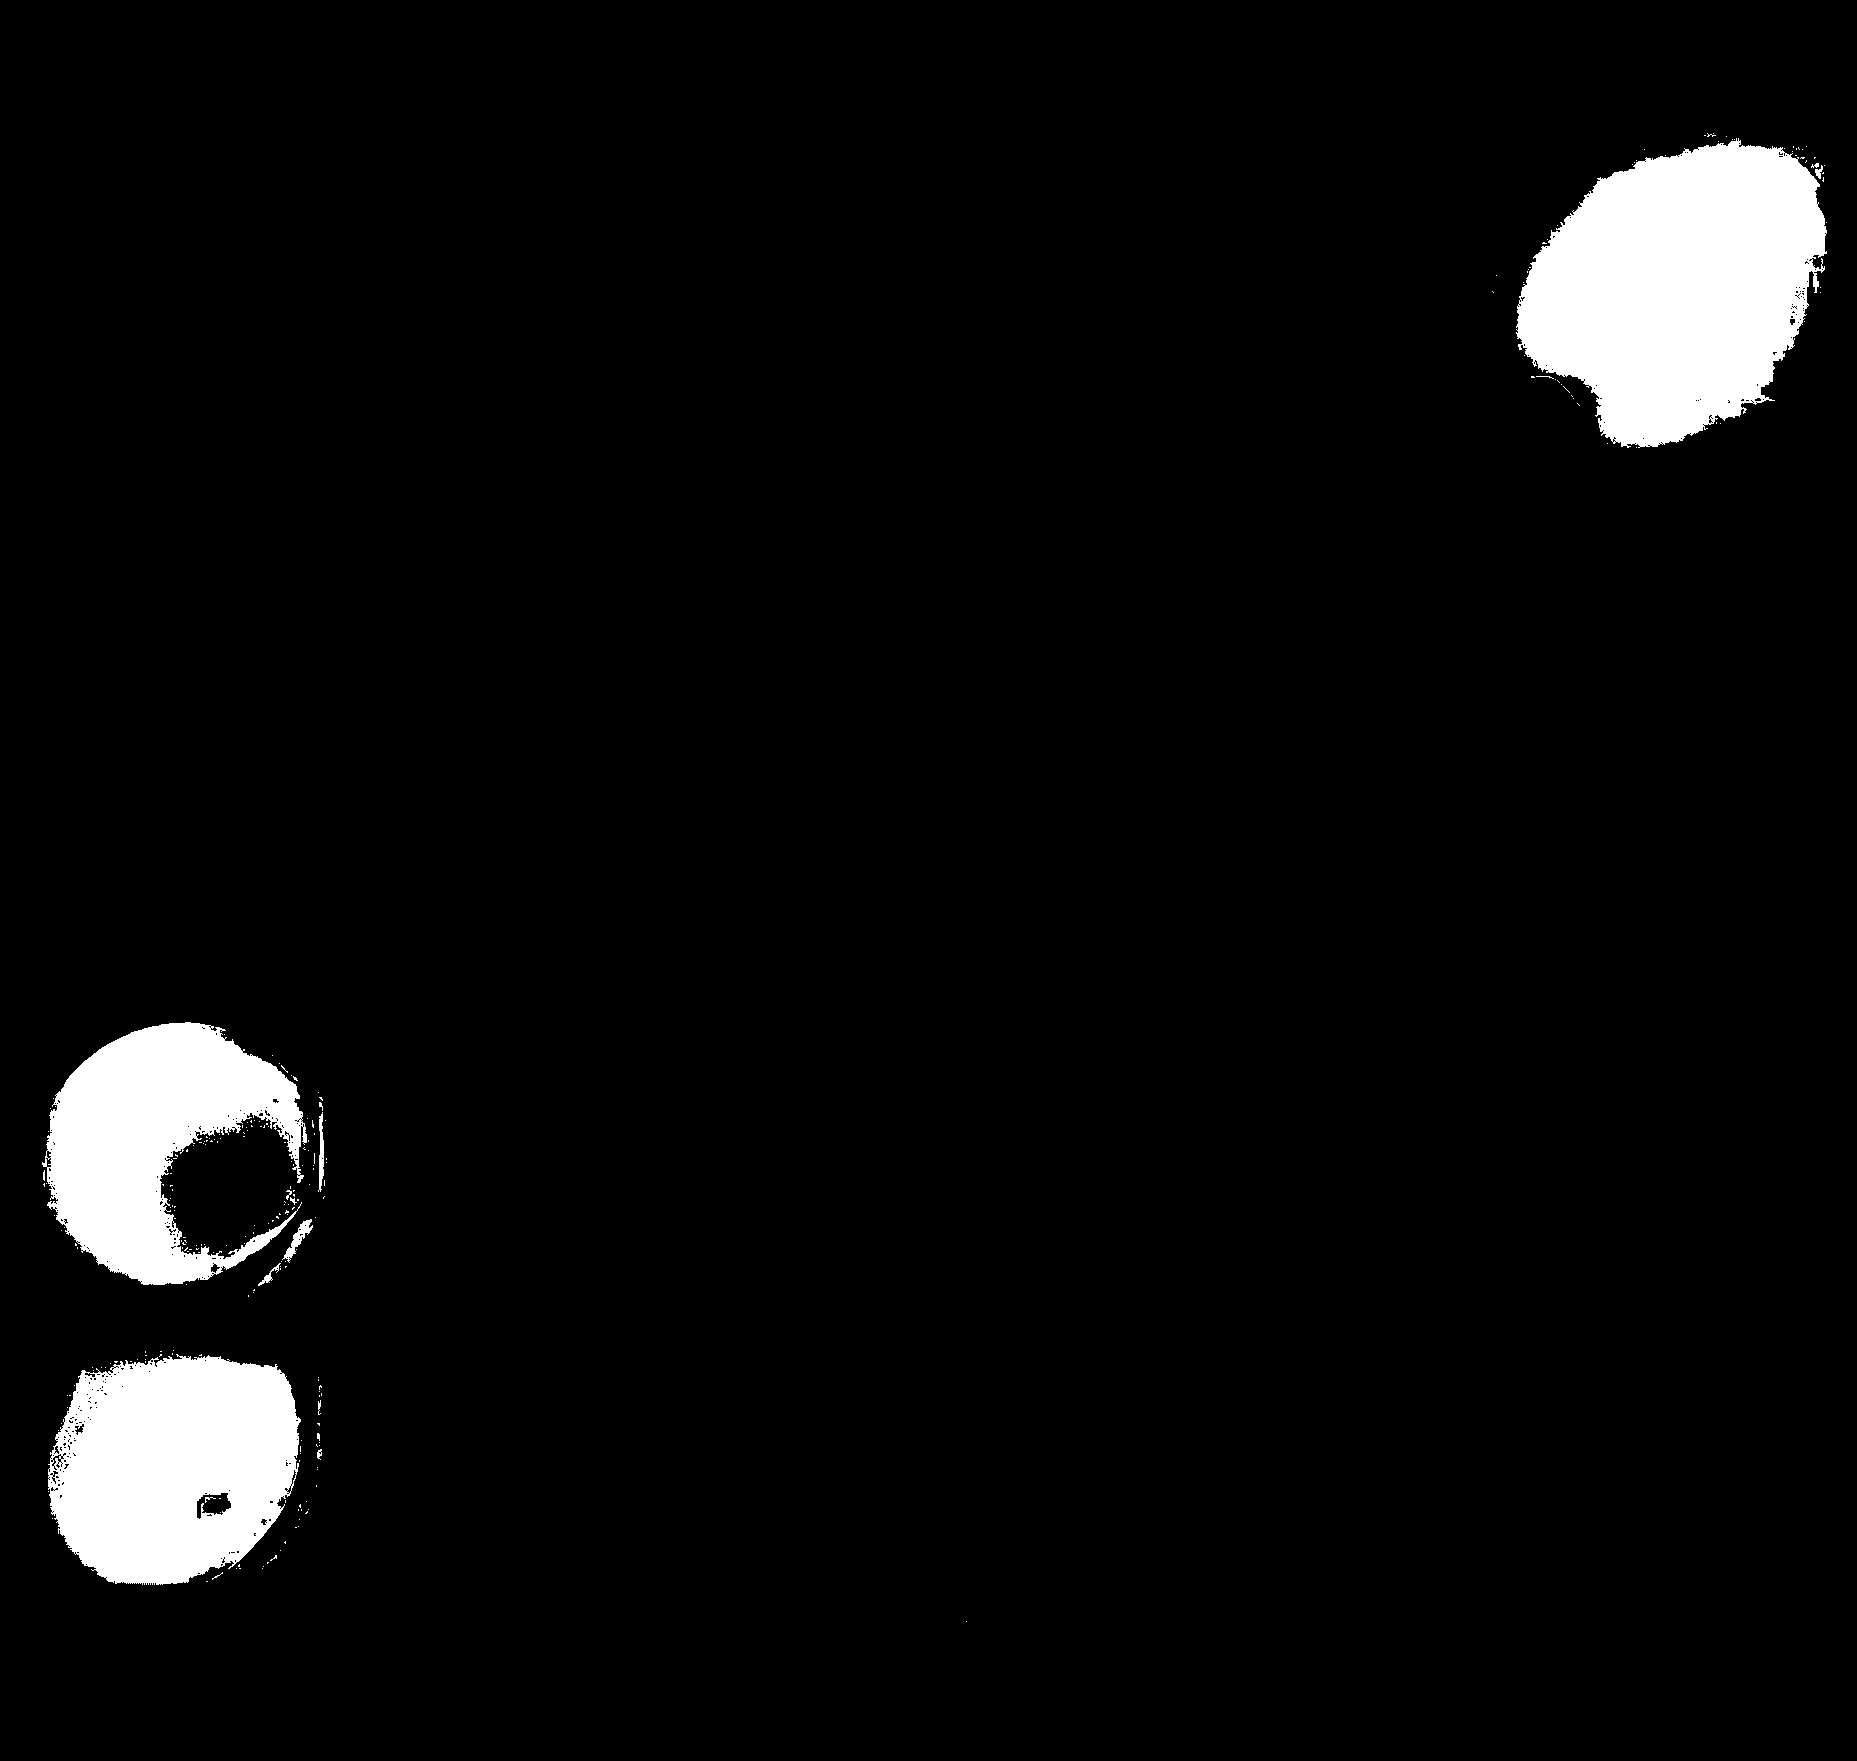
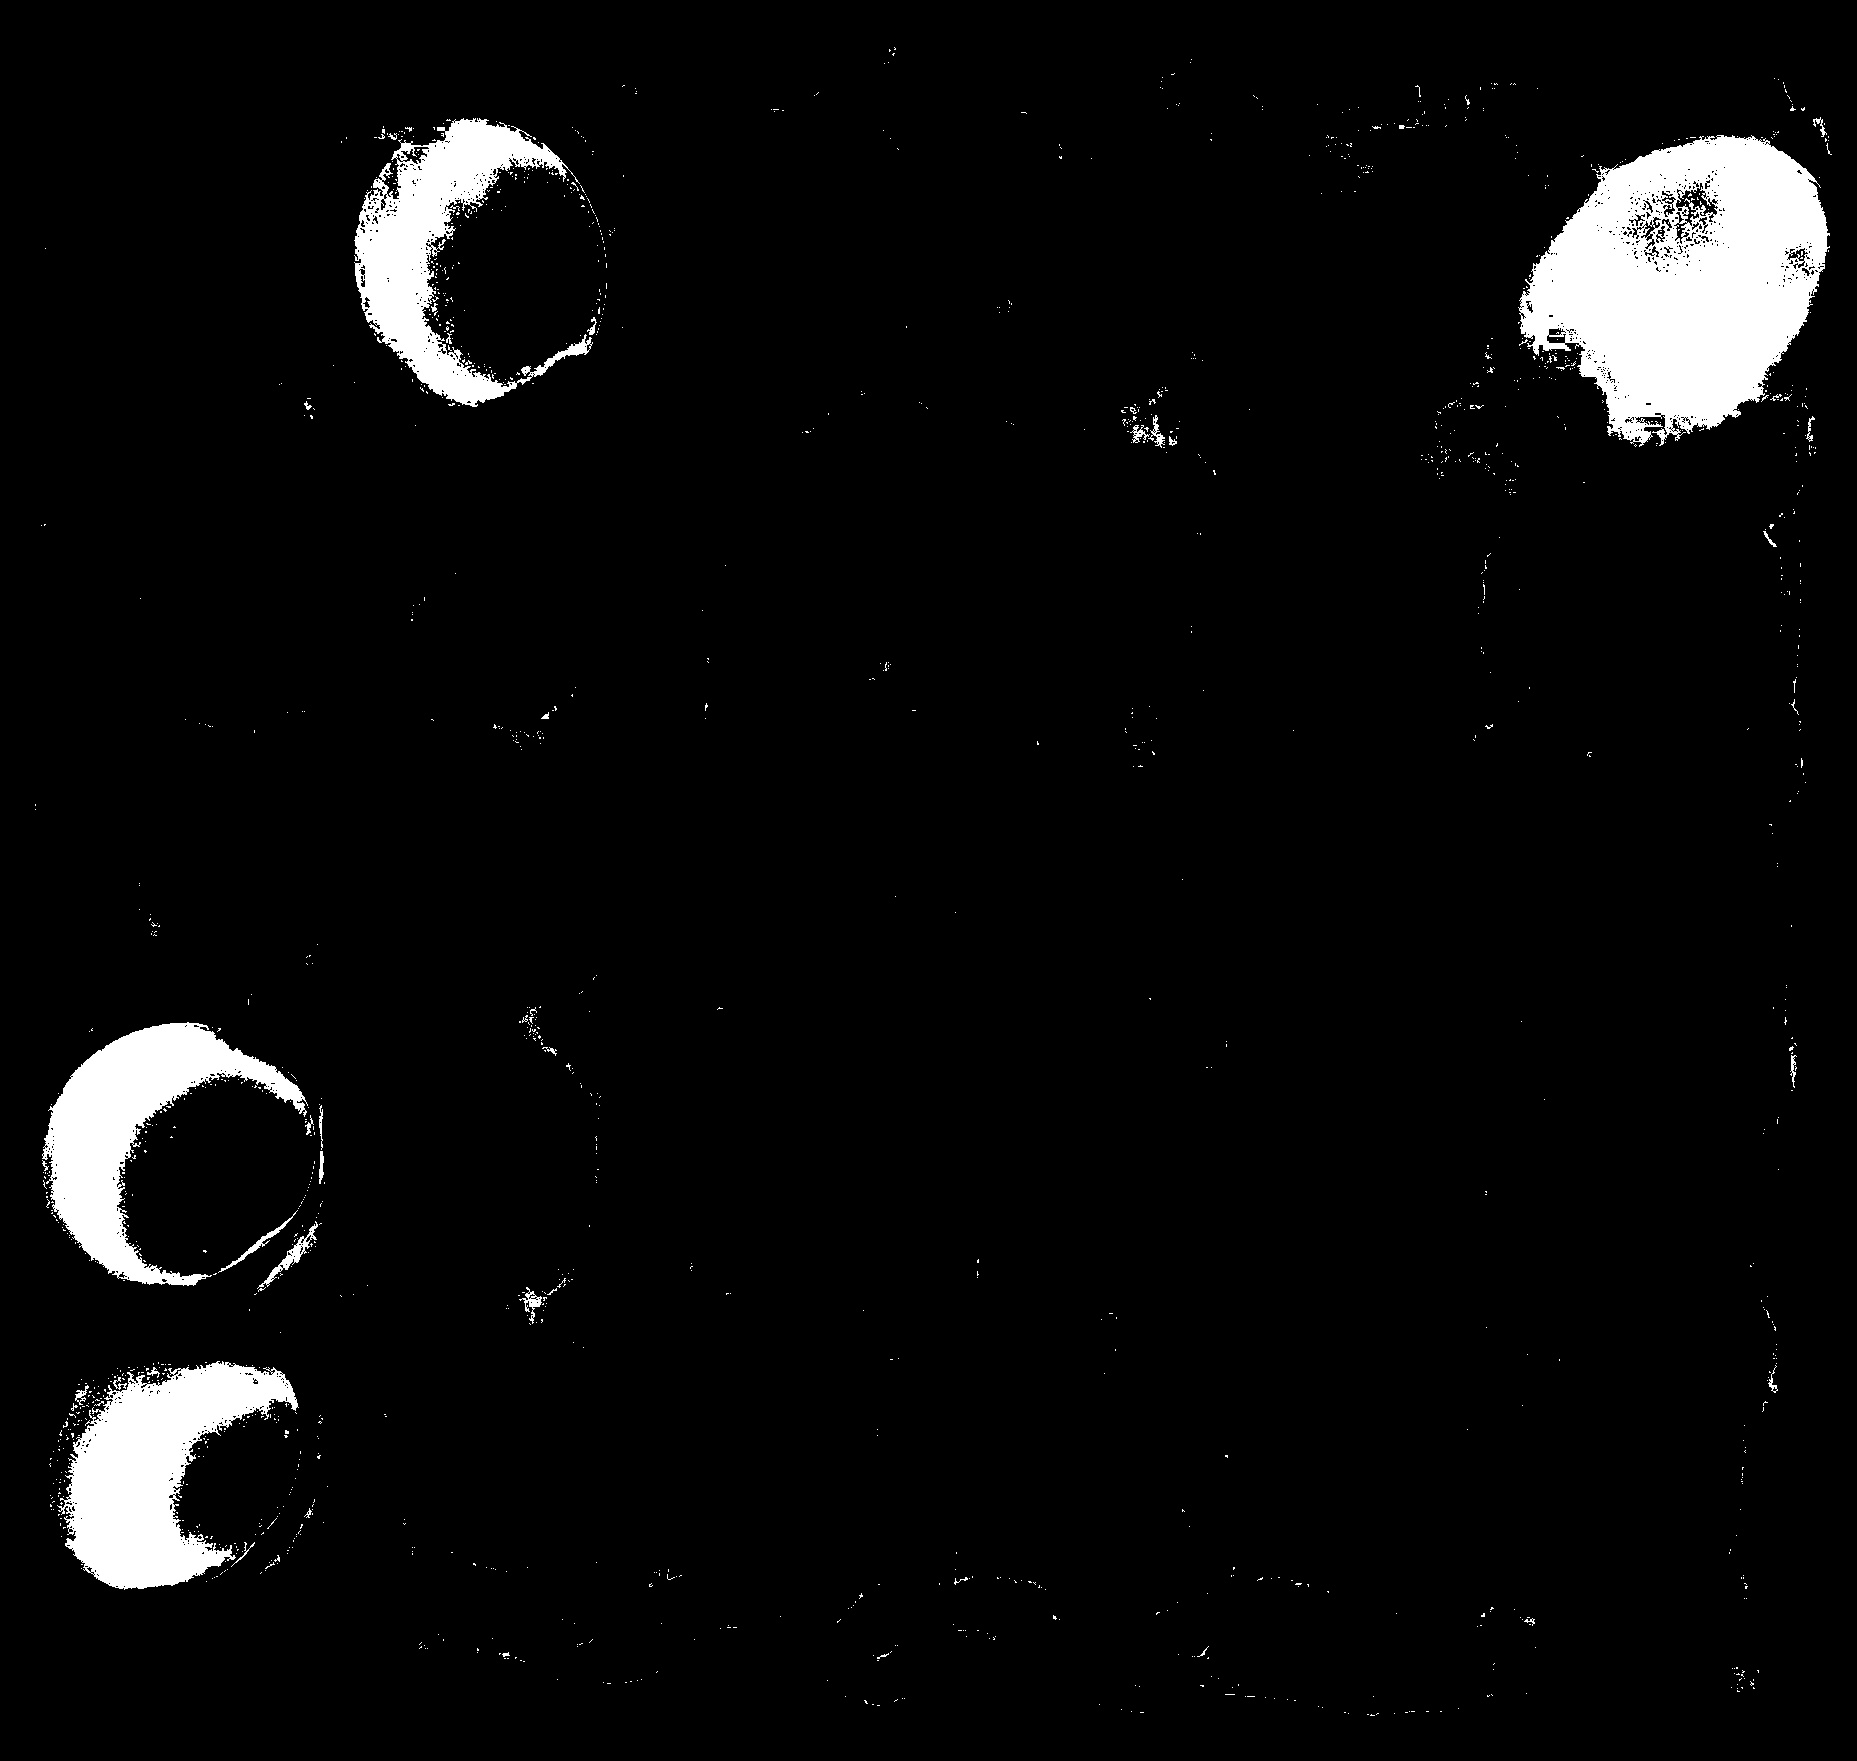
feat: update HSV segmentation bounds and add statistics printing for selected regions

diff --git a/projects/usco-egg/src/pick_bounds.py b/projects/usco-egg/src/pick_bounds.py
@@ -20,6 +20,22 @@ start_point = None
 end_point = None
 drawing = False
 
+
+def print_stats(selected_region):
+    L, A, B = cv2.split(selected_region)
+    L_min, L_max = L[L > 0].min(), L[L > 0].max()
+    A_min, A_max = A[A > 0].min(), A[A > 0].max()
+    B_min, B_max = B[B > 0].min(), B[B > 0].max()
+
+    average_L = np.mean(L[L > 0]).round()
+    average_A = np.mean(A[A > 0]).round()
+    average_B = np.mean(B[B > 0]).round()
+    
+    print(f"min: [{L_min}, {A_min}, {B_min}]")
+    print(f"max: [{L_max}, {A_max}, {B_max}]")
+    print(f"avg: [{average_L}, {average_A}, {average_B}]\n")
+    
+
 def click_event(event, x, y, flags, param):
     global start_point, end_point, drawing
 
@@ -41,42 +57,27 @@ def click_event(event, x, y, flags, param):
         radius = int(np.sqrt((end_point[0] - start_point[0])**2 + (end_point[1] - start_point[1])**2))
         cv2.circle(resized_image, start_point, radius, (0, 255, 0), 2)
         cv2.imshow("Click and drag to select region", resized_image)
-        get_lab_range(resized_lab, start_point, radius)
-        # get_hsv_range(resized_hsv, start_point, radius)
+        
+        # print("\nLAB RESULTS")
+        # print("--------------------------------------")
+        # get_lab_range(resized_lab, start_point, radius)
+
+        print("\nHSV RESULTS")
+        print("--------------------------------------")
+        get_hsv_range(resized_hsv, start_point, radius)
 
 def get_lab_range(image, center, radius):
     mask = np.zeros(image.shape[:2], dtype=np.uint8)
     cv2.circle(mask, center, radius, 255, -1)
     selected_region = cv2.bitwise_and(image, image, mask=mask)
-    L, A, B = cv2.split(selected_region)
-    L_min, L_max = L[L > 0].min(), L[L > 0].max()
-    A_min, A_max = A[A > 0].min(), A[A > 0].max()
-    B_min, B_max = B[B > 0].min(), B[B > 0].max()
+    print_stats(selected_region)
 
-    average_L = np.mean(L[L > 0])
-    average_A = np.mean(A[A > 0])
-    average_B = np.mean(B[B > 0])
-
-    print(f"min LAB: [{L_min}, {A_min}, {B_min}]")
-    print(f"max LAB: [{L_max}, {A_max}, {B_max}]")
-    print(f"average LAB: [{average_L}, {average_A}, {average_B}]\n")
 
 def get_hsv_range(image, center, radius):
     mask = np.zeros(image.shape[:2], dtype=np.uint8)
     cv2.circle(mask, center, radius, 255, -1)
     selected_region = cv2.bitwise_and(image, image, mask=mask)
-    H, S, V = cv2.split(selected_region)
-    H_min, H_max = H[H > 0].min(), H[H > 0].max()
-    S_min, S_max = S[S > 0].min(), S[S > 0].max()
-    V_min, V_max = V[V > 0].min(), V[V > 0].max()
-
-    average_H = np.mean(H[H > 0])
-    average_S = np.mean(S[S > 0])
-    average_V = np.mean(V[V > 0])
-
-    print(f"min HSV: [{H_min}, {S_min}, {V_min}]")
-    print(f"max HSV: [{H_max}, {S_max}, {V_max}]\n")
-    print(f"average HSV: [{average_H}, {average_S}, {average_V}]\n")
+    print_stats(selected_region)
 
 cv2.imshow("Click and drag to select region", resized_image)
 cv2.setMouseCallback("Click and drag to select region", click_event)

diff --git a/projects/usco-egg/src/main.py b/projects/usco-egg/src/main.py
@@ -37,14 +37,15 @@ def main_hsv():
   #                    b_range=[115,160], suffix="adjusted")
 
 
-
-  # Define LAB color bounds for segmentation
+  # Define HSV color bounds for segmentation
 
   bounds_list = [
-    ([8, 115, 103], [18, 170, 221])
-    # ([81, 135, 145], [184, 150, 174]),  # Light Brown Eggs
-    # ([130, 140, 100], [255, 160, 120]),  # White Eggs
-    # ([110, 115, 90], [255, 135, 110])    # Dark Brown Eggs
+    ([8, 115, 103], [18, 170, 221]), # Normal eggs
+    ([8, 86, 129], [14, 161, 218]),  # Normal eggs +
+    ([19, 58, 130], [25, 108, 195]), # Light Green Eggs +
+    
+    # ([18, 57, 122], [26, 110, 195]), # Light Green Eggs
+    # ([9, 40, 59], [19, 138, 166]), # Basket
 ]
 
   # Apply segmentation
@@ -108,5 +109,5 @@ def main_lab():
 
 
 
-# main_hsv()
-main_lab()
+main_hsv()
+# main_lab()
